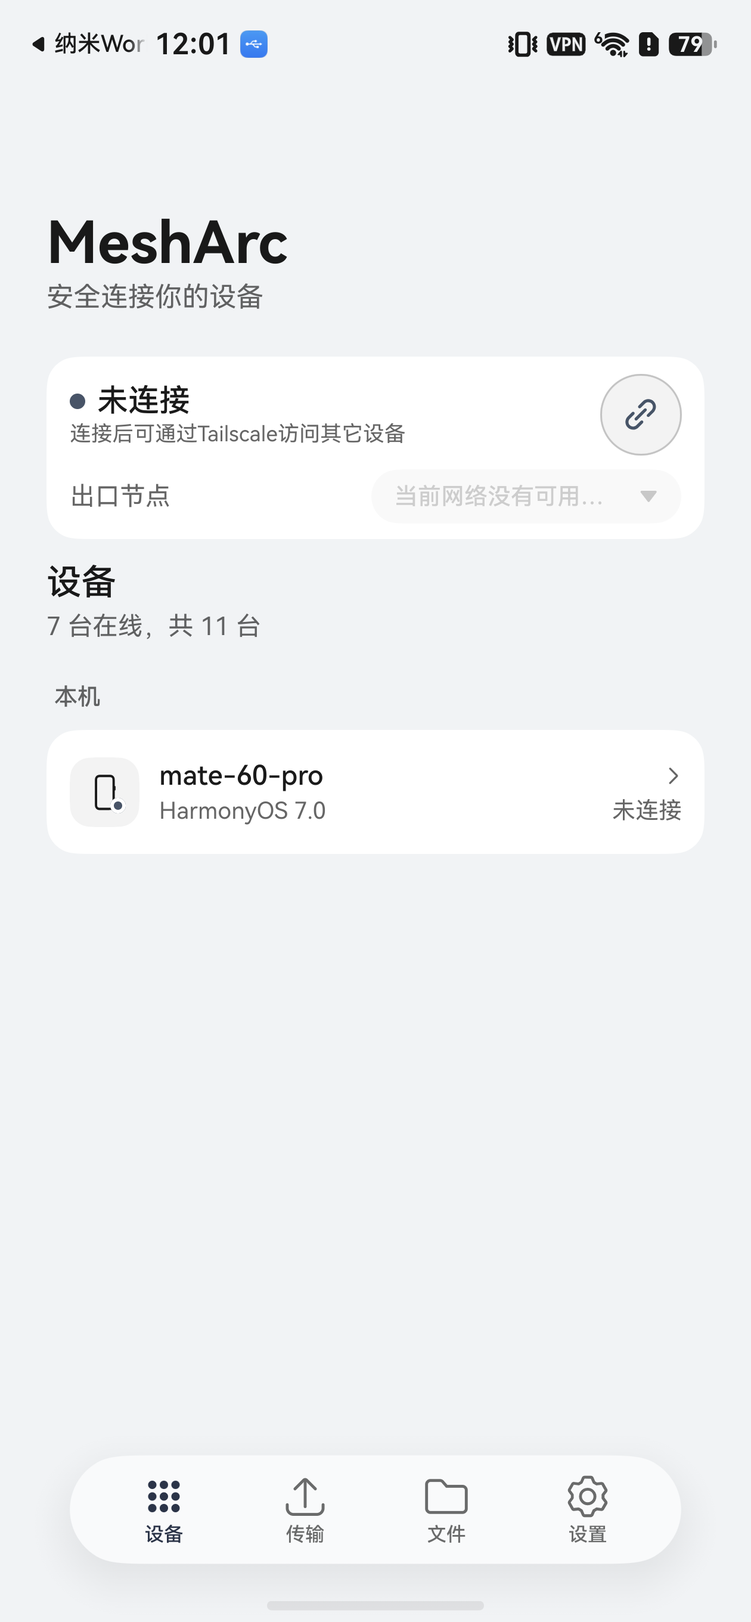
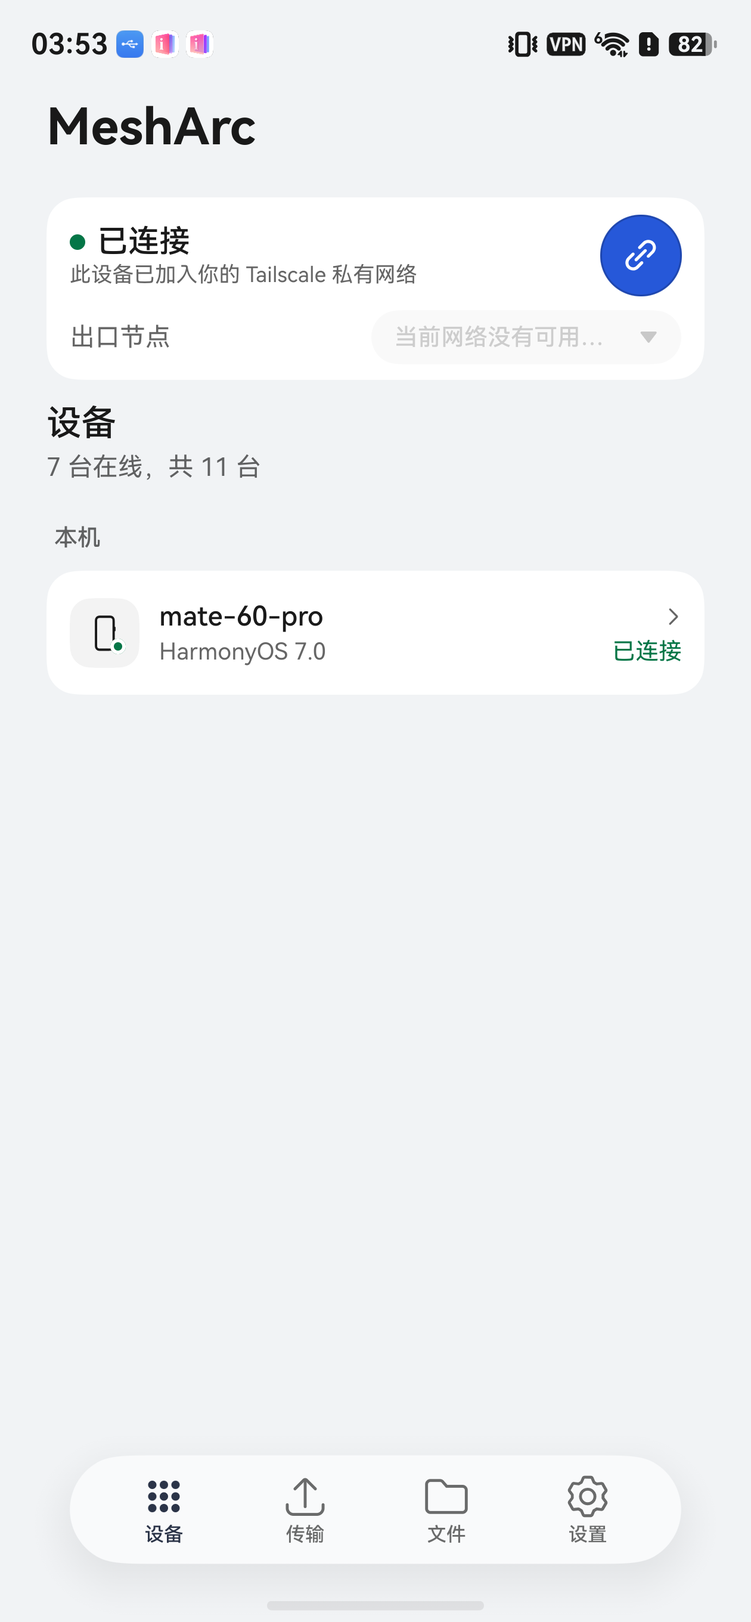
docs(a01): commit the green 28-file batch at 7b816f7
The batch at 18:16 finished with exit 0. Every file has zero failures.
No file reports a fail verdict; 19 files report partial, which means they
carry skips. The structured report holds 10 cases: 7 pass, 3 skip, 0 fail.

- connect-window-background 4 pass after the Home key fix
- taildrop-send 2 pass after waiting for the ready snapshot
- taildrop-text 1 pass after the editor and send-key fixes
- taildrive-browser 2 skip: no peer shares a folder
- screen-off-survival 3 pass, 720 s, 225 beats over 742 s

diff --git a/docs/changes/vpn-endurance/checks/e2e/index.html b/docs/changes/vpn-endurance/checks/e2e/index.html
@@ -4,7 +4,7 @@
 <meta charset="utf-8">
 <meta name="viewport" content="width=device-width,initial-scale=1">
 <meta name="a01-change-id" content="vpn-endurance">
-<meta name="a01-baseline" content="d681465（工作树有本批次未提交改动）">
+<meta name="a01-baseline" content="7b816f7（工作树有本批次未提交改动）">
 <meta name="a01-report-version" content="1">
 <title>设备侧 E2E：断连恢复与省电 · E2E 报告</title>
 <style>
@@ -132,8 +132,8 @@ footer{margin-top:34px;color:var(--muted);font-size:12px;line-height:1.8}
 <table>
 <caption>运行元信息</caption>
 <tbody>
-<tr><th>批次</th><td><code>vpn-endurance</code></td><th>代码基线</th><td><code>d681465（工作树有本批次未提交改动）</code></td></tr>
-<tr><th>目标类型</th><td>移动端（mobile）</td><th>执行时间</th><td>2026-10-22T03:25:22.594Z</td></tr>
+<tr><th>批次</th><td><code>vpn-endurance</code></td><th>代码基线</th><td><code>7b816f7（工作树有本批次未提交改动）</code></td></tr>
+<tr><th>目标类型</th><td>移动端（mobile）</td><th>执行时间</th><td>2026-10-22T07:16:37.215Z</td></tr>
 <tr><th>运行环境</th><td colspan="3">2LQGK24828000076 · ALN-AL00 · API 26 · USB 连接 · Wi-Fi · 充电中</td></tr>
 <tr><th>运行命令</th><td colspan="3"><code>scripts/e2e/run-batch.sh background-reconnect browser-login build-journey connect-journey connect-window-background control-server devices-journey diagnostics-report disconnect-journey endurance-recovery engine-runtimes first-run headless-connect install-restart-recovery logout media-launch meshsend-dual-channel navigation-shell network-recovery network-settings security-locks taildrive-browser taildrop-history taildrop-receive taildrop-send taildrop-text vpn-conflict screen-off-survival</code></td></tr>
 </tbody>
@@ -198,39 +198,39 @@ footer{margin-top:34px;color:var(--muted);font-size:12px;line-height:1.8}
 <section id="timeline">
 <h2>步骤时间线</h2>
 <p class="muted">按用例与步骤排列。截图和输出来自本次运行。点击截图可看原图。</p>
-<div class="cases"><article class="case pass" id="case-BG-CONNECT" data-case-card data-status="pass" data-oracles="O-CONN-04"><div class="case-head"><div><span class="case-id">用例 <code>BG-CONNECT</code></span><h3>重连监督：先连上隧道</h3></div><span class="badge pass">通过</span></div><div class="case-meta"><span class="chip">O-CONN-04</span><span class="muted">步骤 2</span></div><ol class="steps"><li class="step" id="step-BG-CONNECT-S1"><div class="step-head"><span class="step-id"><code>S1</code></span><span class="badge pass">通过</span></div><p class="step-name">冷启动应用</p><dl><dt>操作</dt><dd>aa force-stop 后 aa start</dd><dt>期望</dt><dd><ul class="expected"><li>设备日志出现 ui_opened</li><li>界面显示连接状态</li></ul></dd><dt>实际</dt><dd>应用冷启动完成，界面显示连接状态</dd></dl><div class="shots single"><figure><a href="shots/BG-CONNECT__S1__1.png"><img src="shots/BG-CONNECT__S1__1.png" alt="操作后" loading="lazy"></a><figcaption>操作后 · e2e-run/shots/01-background-reconnect-launch.png</figcaption></figure></div></li><li class="step" id="step-BG-CONNECT-S2"><div class="step-head"><span class="step-id"><code>S2</code></span><span class="badge pass">通过</span></div><p class="step-name">建立隧道</p><dl><dt>操作</dt><dd>界面处于未连接时点击连接按钮</dd><dt>期望</dt><dd><ul class="expected"><li>设备日志出现 vpn_connected</li><li>监督器记录一轮 connected 采样</li></ul></dd><dt>实际</dt><dd>应用已处于已连接状态</dd></dl><div class="shots single"><figure><a href="shots/BG-CONNECT__S2__1.png"><img src="shots/BG-CONNECT__S2__1.png" alt="结果" loading="lazy"></a><figcaption>结果 · e2e-run/shots/02-background-reconnect-connected.png</figcaption></figure></div></li></ol></article><article class="case pass" id="case-BG-USER-STOP" data-case-card data-status="pass" data-oracles="O-RECONN-10 O-SEAM-11"><div class="case-head"><div><span class="case-id">用例 <code>BG-USER-STOP</code></span><h3>重连监督：前台主动断开记为用户停止且不重连</h3></div><span class="badge pass">通过</span></div><div class="case-meta"><span class="chip">O-RECONN-10</span><span class="chip">O-SEAM-11</span><span class="muted">步骤 2</span></div><ol class="steps"><li class="step" id="step-BG-USER-STOP-S1"><div class="step-head"><span class="step-id"><code>S1</code></span><span class="badge pass">通过</span></div><p class="step-name">前台点击断开</p><dl><dt>操作</dt><dd>点击界面的断开按钮</dd><dt>期望</dt><dd><ul class="expected"><li>设备日志出现 vpn_drop_after_requested_stop</li><li>界面回到未连接</li></ul></dd><dt>实际</dt><dd>出现 vpn_drop_after_requested_stop，界面回到未连接</dd></dl><div class="shots single"><figure><a href="shots/BG-USER-STOP__S1__1.png"><img src="shots/BG-USER-STOP__S1__1.png" alt="结果" loading="lazy"></a><figcaption>结果 · e2e-run/shots/03-background-reconnect-foreground-drop.png</figcaption></figure></div></li><li class="step" id="step-BG-USER-STOP-S2"><div class="step-head"><span class="step-id"><code>S2</code></span><span class="badge pass">通过</span></div><p class="step-name">确认没有自动重连</p><dl><dt>操作</dt><dd>检索本次日志中的恢复事件</dd><dt>期望</dt><dd><ul class="expected"><li>不出现 vpn_session_recovery_attempt</li><li>不出现 vpn_session_recovery_started</li></ul></dd><dt>实际</dt><dd>日志中没有恢复事件</dd></dl><h4>运行输出</h4><pre class="output">vpn_session_recovery_attempt 0 次，vpn_session_recovery_started 0 次</pre></li></ol></article><article class="case skip" id="case-BG-BACKGROUND-DROP" data-case-card data-status="skip" data-oracles="O-CONN-04"><div class="case-head"><div><span class="case-id">用例 <code>BG-BACKGROUND-DROP</code></span><h3>重连监督：后台非主动掉线自动重连</h3></div><span class="badge skip">跳过</span></div><div class="case-meta"><span class="chip">O-CONN-04</span><span class="muted">步骤 1</span></div><ol class="steps"><li class="step" id="step-BG-BACKGROUND-DROP-S1"><div class="step-head"><span class="step-id"><code>S1</code></span><span class="badge skip">跳过</span></div><p class="step-name">用例适用性</p><dl><dt>操作</dt><dd>检查前置条件</dd><dt>期望</dt><dd><ul class="expected"><li>前置条件满足</li></ul></dd><dt>实际</dt><dd>缺制造非主动掉线的能力：需要人工在系统设置里断开 VPN，或一条只停扩展、不杀 UI 进程的通道。届时再补真机证据。</dd></dl><h4>运行输出</h4><pre class="output">缺制造非主动掉线的能力：需要人工在系统设置里断开 VPN，或一条只停扩展、不杀 UI 进程的通道。届时再补真机证据。</pre></li></ol></article><article class="case skip" id="case-BG-CARD-STOP" data-case-card data-status="skip" data-oracles="O-RECONN-10"><div class="case-head"><div><span class="case-id">用例 <code>BG-CARD-STOP</code></span><h3>重连监督：受控入口的主动断开</h3></div><span class="badge skip">跳过</span></div><div class="case-meta"><span class="chip">O-RECONN-10</span><span class="muted">步骤 1</span></div><ol class="steps"><li class="step" id="step-BG-CARD-STOP-S1"><div class="step-head"><span class="step-id"><code>S1</code></span><span class="badge skip">跳过</span></div><p class="step-name">用例适用性</p><dl><dt>操作</dt><dd>检查前置条件</dd><dt>期望</dt><dd><ul class="expected"><li>前置条件满足</li></ul></dd><dt>实际</dt><dd>缺桌面卡片通道：卡片不在应用窗口树里（manual-checks M-12/M-14 未执行），需要人工点卡片或补一条发送卡片 call 的命令。</dd></dl><h4>运行输出</h4><pre class="output">缺桌面卡片通道：卡片不在应用窗口树里（manual-checks M-12/M-14 未执行），需要人工点卡片或补一条发送卡片 call 的命令。</pre></li></ol></article><article class="case pass" id="case-ENDURANCE-RECOVERY" data-case-card data-status="pass" data-oracles="O-DIAG-02 O-CONN-08"><div class="case-head"><div><span class="case-id">用例 <code>ENDURANCE-RECOVERY</code></span><h3>扩展被杀后自动恢复并留下原因记录</h3></div><span class="badge pass">通过</span></div><div class="case-meta"><span class="chip">O-DIAG-02</span><span class="chip">O-CONN-08</span><span class="muted">步骤 4</span></div><ol class="steps"><li class="step" id="step-ENDURANCE-RECOVERY-S1"><div class="step-head"><span class="step-id"><code>S1</code></span><span class="badge pass">通过</span></div><p class="step-name">定位扩展进程</p><dl><dt>操作</dt><dd>hdc shell ps -ef 并筛选带 vpn 的应用进程</dd><dt>期望</dt><dd><ul class="expected"><li>只有一个带 vpn 的应用进程</li><li>状态文件带 sessionId</li></ul></dd><dt>实际</dt><dd>扩展进程 17733，会话 1792642996297</dd></dl><h4>运行输出</h4><pre class="output">20020205      17733    583 0 18:34:39 ?     00:00:07 ren.w2h.mesharc:vpn</pre></li><li class="step" id="step-ENDURANCE-RECOVERY-S2"><div class="step-head"><span class="step-id"><code>S2</code></span><span class="badge pass">通过</span></div><p class="step-name">结束扩展进程</p><dl><dt>操作</dt><dd>诊断动作「手动切断系统 VPN 连接」</dd><dt>期望</dt><dd><ul class="expected"><li>扩展进程结束</li><li>该 PID 从进程表消失</li><li>不是经用户停止入口断开</li></ul></dd><dt>实际</dt><dd>进程 17733 已结束（诊断动作「手动切断系统 VPN 连接」）</dd></dl><h4>运行输出</h4><pre class="output">诊断动作「手动切断系统 VPN 连接」
-PID 已从 ps 输出消失</pre></li><li class="step" id="step-ENDURANCE-RECOVERY-S3"><div class="step-head"><span class="step-id"><code>S3</code></span><span class="badge pass">通过</span></div><p class="step-name">等待自动恢复</p><dl><dt>操作</dt><dd>等待设备日志出现恢复事件与新扩展</dd><dt>期望</dt><dd><ul class="expected"><li>出现 vpn_session_recovery_attempt</li><li>出现 vpn_extension_created</li><li>状态回到 Running</li></ul></dd><dt>实际</dt><dd>新会话 1792643091071，state=Running，tun=true</dd></dl><div class="shots"><figure><a href="shots/ENDURANCE-RECOVERY__S3__1.png"><img src="shots/ENDURANCE-RECOVERY__S3__1.png" alt="操作后" loading="lazy"></a><figcaption>操作后 · e2e-run/shots/01-endurance-recovery-killed.png</figcaption></figure><figure><a href="shots/ENDURANCE-RECOVERY__S3__2.png"><img src="shots/ENDURANCE-RECOVERY__S3__2.png" alt="结果" loading="lazy"></a><figcaption>结果 · e2e-run/shots/02-endurance-recovery-restored.png</figcaption></figure></div></li><li class="step" id="step-ENDURANCE-RECOVERY-S4"><div class="step-head"><span class="step-id"><code>S4</code></span><span class="badge pass">通过</span></div><p class="step-name">校验原因账本</p><dl><dt>操作</dt><dd>读取会话账本（按写者分文件）的新增行</dd><dt>期望</dt><dd><ul class="expected"><li>旧会话有 end 或 observed 记录</li><li>原因属于 extension_crash / extension_destroyed</li><li>没有 user_stop</li></ul></dd><dt>实际</dt><dd>旧会话 1792642996297 记录 extension_destroyed，没有 user_stop</dd></dl><h4>运行输出</h4><pre class="output">[
+<div class="cases"><article class="case pass" id="case-BG-CONNECT" data-case-card data-status="pass" data-oracles="O-CONN-04"><div class="case-head"><div><span class="case-id">用例 <code>BG-CONNECT</code></span><h3>重连监督：先连上隧道</h3></div><span class="badge pass">通过</span></div><div class="case-meta"><span class="chip">O-CONN-04</span><span class="muted">步骤 2</span></div><ol class="steps"><li class="step" id="step-BG-CONNECT-S1"><div class="step-head"><span class="step-id"><code>S1</code></span><span class="badge pass">通过</span></div><p class="step-name">冷启动应用</p><dl><dt>操作</dt><dd>aa force-stop 后 aa start</dd><dt>期望</dt><dd><ul class="expected"><li>设备日志出现 ui_opened</li><li>界面显示连接状态</li></ul></dd><dt>实际</dt><dd>应用冷启动完成，界面显示连接状态</dd></dl><div class="shots single"><figure><a href="shots/BG-CONNECT__S1__1.png"><img src="shots/BG-CONNECT__S1__1.png" alt="操作后" loading="lazy"></a><figcaption>操作后 · e2e-run/shots/01-background-reconnect-launch.png</figcaption></figure></div></li><li class="step" id="step-BG-CONNECT-S2"><div class="step-head"><span class="step-id"><code>S2</code></span><span class="badge pass">通过</span></div><p class="step-name">建立隧道</p><dl><dt>操作</dt><dd>界面处于未连接时点击连接按钮</dd><dt>期望</dt><dd><ul class="expected"><li>设备日志出现 vpn_connected</li><li>监督器记录一轮 connected 采样</li></ul></dd><dt>实际</dt><dd>点击连接后出现 vpn_connected，监督器已采样</dd></dl><div class="shots single"><figure><a href="shots/BG-CONNECT__S2__1.png"><img src="shots/BG-CONNECT__S2__1.png" alt="结果" loading="lazy"></a><figcaption>结果 · e2e-run/shots/02-background-reconnect-connected.png</figcaption></figure></div></li></ol></article><article class="case pass" id="case-BG-USER-STOP" data-case-card data-status="pass" data-oracles="O-RECONN-10 O-SEAM-11"><div class="case-head"><div><span class="case-id">用例 <code>BG-USER-STOP</code></span><h3>重连监督：前台主动断开记为用户停止且不重连</h3></div><span class="badge pass">通过</span></div><div class="case-meta"><span class="chip">O-RECONN-10</span><span class="chip">O-SEAM-11</span><span class="muted">步骤 2</span></div><ol class="steps"><li class="step" id="step-BG-USER-STOP-S1"><div class="step-head"><span class="step-id"><code>S1</code></span><span class="badge pass">通过</span></div><p class="step-name">前台点击断开</p><dl><dt>操作</dt><dd>点击界面的断开按钮</dd><dt>期望</dt><dd><ul class="expected"><li>设备日志出现 vpn_drop_after_requested_stop</li><li>界面回到未连接</li></ul></dd><dt>实际</dt><dd>出现 vpn_drop_after_requested_stop，界面回到未连接</dd></dl><div class="shots single"><figure><a href="shots/BG-USER-STOP__S1__1.png"><img src="shots/BG-USER-STOP__S1__1.png" alt="结果" loading="lazy"></a><figcaption>结果 · e2e-run/shots/03-background-reconnect-foreground-drop.png</figcaption></figure></div></li><li class="step" id="step-BG-USER-STOP-S2"><div class="step-head"><span class="step-id"><code>S2</code></span><span class="badge pass">通过</span></div><p class="step-name">确认没有自动重连</p><dl><dt>操作</dt><dd>检索本次日志中的恢复事件</dd><dt>期望</dt><dd><ul class="expected"><li>不出现 vpn_session_recovery_attempt</li><li>不出现 vpn_session_recovery_started</li></ul></dd><dt>实际</dt><dd>日志中没有恢复事件</dd></dl><h4>运行输出</h4><pre class="output">vpn_session_recovery_attempt 0 次，vpn_session_recovery_started 0 次</pre></li></ol></article><article class="case skip" id="case-BG-BACKGROUND-DROP" data-case-card data-status="skip" data-oracles="O-CONN-04"><div class="case-head"><div><span class="case-id">用例 <code>BG-BACKGROUND-DROP</code></span><h3>重连监督：后台非主动掉线自动重连</h3></div><span class="badge skip">跳过</span></div><div class="case-meta"><span class="chip">O-CONN-04</span><span class="muted">步骤 1</span></div><ol class="steps"><li class="step" id="step-BG-BACKGROUND-DROP-S1"><div class="step-head"><span class="step-id"><code>S1</code></span><span class="badge skip">跳过</span></div><p class="step-name">用例适用性</p><dl><dt>操作</dt><dd>检查前置条件</dd><dt>期望</dt><dd><ul class="expected"><li>前置条件满足</li></ul></dd><dt>实际</dt><dd>缺制造非主动掉线的能力：需要人工在系统设置里断开 VPN，或一条只停扩展、不杀 UI 进程的通道。届时再补真机证据。</dd></dl><h4>运行输出</h4><pre class="output">缺制造非主动掉线的能力：需要人工在系统设置里断开 VPN，或一条只停扩展、不杀 UI 进程的通道。届时再补真机证据。</pre></li></ol></article><article class="case skip" id="case-BG-CARD-STOP" data-case-card data-status="skip" data-oracles="O-RECONN-10"><div class="case-head"><div><span class="case-id">用例 <code>BG-CARD-STOP</code></span><h3>重连监督：受控入口的主动断开</h3></div><span class="badge skip">跳过</span></div><div class="case-meta"><span class="chip">O-RECONN-10</span><span class="muted">步骤 1</span></div><ol class="steps"><li class="step" id="step-BG-CARD-STOP-S1"><div class="step-head"><span class="step-id"><code>S1</code></span><span class="badge skip">跳过</span></div><p class="step-name">用例适用性</p><dl><dt>操作</dt><dd>检查前置条件</dd><dt>期望</dt><dd><ul class="expected"><li>前置条件满足</li></ul></dd><dt>实际</dt><dd>缺桌面卡片通道：卡片不在应用窗口树里（manual-checks M-12/M-14 未执行），需要人工点卡片或补一条发送卡片 call 的命令。</dd></dl><h4>运行输出</h4><pre class="output">缺桌面卡片通道：卡片不在应用窗口树里（manual-checks M-12/M-14 未执行），需要人工点卡片或补一条发送卡片 call 的命令。</pre></li></ol></article><article class="case pass" id="case-ENDURANCE-RECOVERY" data-case-card data-status="pass" data-oracles="O-DIAG-02 O-CONN-08"><div class="case-head"><div><span class="case-id">用例 <code>ENDURANCE-RECOVERY</code></span><h3>扩展被杀后自动恢复并留下原因记录</h3></div><span class="badge pass">通过</span></div><div class="case-meta"><span class="chip">O-DIAG-02</span><span class="chip">O-CONN-08</span><span class="muted">步骤 4</span></div><ol class="steps"><li class="step" id="step-ENDURANCE-RECOVERY-S1"><div class="step-head"><span class="step-id"><code>S1</code></span><span class="badge pass">通过</span></div><p class="step-name">定位扩展进程</p><dl><dt>操作</dt><dd>hdc shell ps -ef 并筛选带 vpn 的应用进程</dd><dt>期望</dt><dd><ul class="expected"><li>只有一个带 vpn 的应用进程</li><li>状态文件带 sessionId</li></ul></dd><dt>实际</dt><dd>扩展进程 37379，会话 1792653942945</dd></dl><h4>运行输出</h4><pre class="output">20020205      37379    583 0 21:37:06 ?     00:00:06 ren.w2h.mesharc:vpn</pre></li><li class="step" id="step-ENDURANCE-RECOVERY-S2"><div class="step-head"><span class="step-id"><code>S2</code></span><span class="badge pass">通过</span></div><p class="step-name">结束扩展进程</p><dl><dt>操作</dt><dd>诊断动作「手动切断系统 VPN 连接」</dd><dt>期望</dt><dd><ul class="expected"><li>扩展进程结束</li><li>该 PID 从进程表消失</li><li>不是经用户停止入口断开</li></ul></dd><dt>实际</dt><dd>进程 37379 已结束（诊断动作「手动切断系统 VPN 连接」）</dd></dl><h4>运行输出</h4><pre class="output">诊断动作「手动切断系统 VPN 连接」
+PID 已从 ps 输出消失</pre></li><li class="step" id="step-ENDURANCE-RECOVERY-S3"><div class="step-head"><span class="step-id"><code>S3</code></span><span class="badge pass">通过</span></div><p class="step-name">等待自动恢复</p><dl><dt>操作</dt><dd>等待设备日志出现恢复事件与新扩展</dd><dt>期望</dt><dd><ul class="expected"><li>出现 vpn_session_recovery_attempt</li><li>出现 vpn_extension_created</li><li>状态回到 Running</li></ul></dd><dt>实际</dt><dd>新会话 1792654037929，state=Running，tun=true</dd></dl><div class="shots"><figure><a href="shots/ENDURANCE-RECOVERY__S3__1.png"><img src="shots/ENDURANCE-RECOVERY__S3__1.png" alt="操作后" loading="lazy"></a><figcaption>操作后 · e2e-run/shots/01-endurance-recovery-killed.png</figcaption></figure><figure><a href="shots/ENDURANCE-RECOVERY__S3__2.png"><img src="shots/ENDURANCE-RECOVERY__S3__2.png" alt="结果" loading="lazy"></a><figcaption>结果 · e2e-run/shots/02-endurance-recovery-restored.png</figcaption></figure></div></li><li class="step" id="step-ENDURANCE-RECOVERY-S4"><div class="step-head"><span class="step-id"><code>S4</code></span><span class="badge pass">通过</span></div><p class="step-name">校验原因账本</p><dl><dt>操作</dt><dd>读取会话账本（按写者分文件）的新增行</dd><dt>期望</dt><dd><ul class="expected"><li>旧会话有 end 或 observed 记录</li><li>原因属于 extension_crash / extension_destroyed</li><li>没有 user_stop</li></ul></dd><dt>实际</dt><dd>旧会话 1792653942945 记录 extension_destroyed，没有 user_stop</dd></dl><h4>运行输出</h4><pre class="output">[
   {
-    &quot;timestampMs&quot;: 1792643086085,
+    &quot;timestampMs&quot;: 1792654032755,
     &quot;writer&quot;: &quot;vpn&quot;,
-    &quot;sessionId&quot;: &quot;1792642996297&quot;,
+    &quot;sessionId&quot;: &quot;1792653942945&quot;,
     &quot;kind&quot;: &quot;end&quot;,
     &quot;reason&quot;: &quot;extension_destroyed&quot;,
     &quot;phase&quot;: &quot;on_destroy&quot;,
     &quot;code&quot;: 0
   },
   {
-    &quot;timestampMs&quot;: 1792643090798,
+    &quot;timestampMs&quot;: 1792654037582,
     &quot;writer&quot;: &quot;ui&quot;,
-    &quot;sessionId&quot;: &quot;1792642996297&quot;,
+    &quot;sessionId&quot;: &quot;1792653942945&quot;,
     &quot;kind&quot;: &quot;observed&quot;,
     &quot;reason&quot;: &quot;extension_destroyed&quot;,
     &quot;phase&quot;: &quot;on_destroy&quot;,
     &quot;code&quot;: 0
   }
-]</pre></li></ol></article><article class="case pass" id="case-INSTALL-RESTART" data-case-card data-status="pass" data-oracles="O-CONN-08 O-DIAG-02 O-RECONN-02"><div class="case-head"><div><span class="case-id">用例 <code>INSTALL-RESTART</code></span><h3>安装重启后按意图恢复隧道</h3></div><span class="badge pass">通过</span></div><div class="case-meta"><span class="chip">O-CONN-08</span><span class="chip">O-DIAG-02</span><span class="chip">O-RECONN-02</span><span class="muted">步骤 5</span></div><ol class="steps"><li class="step" id="step-INSTALL-RESTART-S1"><div class="step-head"><span class="step-id"><code>S1</code></span><span class="badge pass">通过</span></div><p class="step-name">确认安装前状态</p><dl><dt>操作</dt><dd>读取状态文件与意图文件</dd><dt>期望</dt><dd><ul class="expected"><li>状态为 Running</li><li>意图为 connected</li><li>状态文件带 sessionId</li></ul></dd><dt>实际</dt><dd>会话 1792640335565，state=Running，意图 connected</dd></dl><h4>运行输出</h4><pre class="output">状态：OK | state=Running | loginURLReady=false | tailscaleIPs=2 | tun=true | exitNode=false | routeAll=true | exitNodeLAN=false | subnetRoutes=0 | tunRead=8 | tunWrite=0 | tunReadErrors=0 | tunWriteErrors=0 | trafficSession=1792640335750 | txBytes=592 | rxBytes=0 | dnsQ=0 | dnsR=0 | dnsA=0 | netUp=unknown | netUDP=true | netIPv4=true | netIPv6=false | netMappingVaries=true | netPort=41641 | phase=auth-loop-finished | heartbeatMs=1792640346635 | sessionId=1792640335565
-意图：{&quot;desired&quot;:&quot;connected&quot;,&quot;changedAtMs&quot;:1792640335370,&quot;by&quot;:&quot;ui&quot;}</pre></li><li class="step" id="step-INSTALL-RESTART-S2"><div class="step-head"><span class="step-id"><code>S2</code></span><span class="badge pass">通过</span></div><p class="step-name">安装新 HAP</p><dl><dt>操作</dt><dd>hdc install -r /opt/git/github/mesharc/entry/build/default/outputs/default/entry-default-signed.hap</dd><dt>期望</dt><dd><ul class="expected"><li>安装成功</li><li>应用与扩展进程被结束</li></ul></dd><dt>实际</dt><dd>安装成功，应用数据保留</dd></dl><h4>运行输出</h4><pre class="output">[Info]App install path:/opt/git/github/mesharc/entry/build/default/outputs/default/entry-default-signed.hap msg:install bundle successfully. 
-AppMod finish</pre></li><li class="step" id="step-INSTALL-RESTART-S3"><div class="step-head"><span class="step-id"><code>S3</code></span><span class="badge pass">通过</span></div><p class="step-name">启动应用</p><dl><dt>操作</dt><dd>aa start -a EntryAbility</dd><dt>期望</dt><dd><ul class="expected"><li>启动成功</li><li>设备日志出现 ui_opened</li></ul></dd><dt>实际</dt><dd>应用启动并显示界面</dd></dl><div class="shots single"><figure><a href="shots/INSTALL-RESTART__S3__1.png"><img src="shots/INSTALL-RESTART__S3__1.png" alt="操作后" loading="lazy"></a><figcaption>操作后 · e2e-run/shots/01-install-restart-launched.png</figcaption></figure></div></li><li class="step" id="step-INSTALL-RESTART-S4"><div class="step-head"><span class="step-id"><code>S4</code></span><span class="badge pass">通过</span></div><p class="step-name">等待记录与恢复</p><dl><dt>操作</dt><dd>等待结束观测、恢复事件与新扩展</dd><dt>期望</dt><dd><ul class="expected"><li>出现 vpn_session_end_observed</li><li>出现 vpn_session_recovery_attempt</li><li>出现 vpn_session_recovery_started</li><li>状态回到 Running 且 sessionId 改变</li></ul></dd><dt>实际</dt><dd>新会话 1792640380755，state=Running</dd></dl><div class="shots single"><figure><a href="shots/INSTALL-RESTART__S4__1.png"><img src="shots/INSTALL-RESTART__S4__1.png" alt="结果" loading="lazy"></a><figcaption>结果 · e2e-run/shots/02-install-restart-recovered.png</figcaption></figure></div></li><li class="step" id="step-INSTALL-RESTART-S5"><div class="step-head"><span class="step-id"><code>S5</code></span><span class="badge pass">通过</span></div><p class="step-name">校验原因账本</p><dl><dt>操作</dt><dd>读取会话账本（按写者分文件）</dd><dt>期望</dt><dd><ul class="expected"><li>旧会话有 observed 或 end 记录</li><li>本次运行没有 user_stop</li></ul></dd><dt>实际</dt><dd>旧会话 1792640335565 已记录结束原因，本次没有 user_stop</dd></dl><h4>运行输出</h4><pre class="output">[
+]</pre></li></ol></article><article class="case pass" id="case-INSTALL-RESTART" data-case-card data-status="pass" data-oracles="O-CONN-08 O-DIAG-02 O-RECONN-02"><div class="case-head"><div><span class="case-id">用例 <code>INSTALL-RESTART</code></span><h3>安装重启后按意图恢复隧道</h3></div><span class="badge pass">通过</span></div><div class="case-meta"><span class="chip">O-CONN-08</span><span class="chip">O-DIAG-02</span><span class="chip">O-RECONN-02</span><span class="muted">步骤 5</span></div><ol class="steps"><li class="step" id="step-INSTALL-RESTART-S1"><div class="step-head"><span class="step-id"><code>S1</code></span><span class="badge pass">通过</span></div><p class="step-name">确认安装前状态</p><dl><dt>操作</dt><dd>读取状态文件与意图文件</dd><dt>期望</dt><dd><ul class="expected"><li>状态为 Running</li><li>意图为 connected</li><li>状态文件带 sessionId</li></ul></dd><dt>实际</dt><dd>会话 1792654221980，state=Running，意图 connected</dd></dl><h4>运行输出</h4><pre class="output">状态：OK | state=Running | loginURLReady=false | tailscaleIPs=2 | tun=true | exitNode=false | routeAll=true | exitNodeLAN=false | subnetRoutes=0 | tunRead=8 | tunWrite=0 | tunReadErrors=0 | tunWriteErrors=0 | trafficSession=1792654222164 | txBytes=592 | rxBytes=0 | dnsQ=0 | dnsR=0 | dnsA=0 | netUp=unknown | netUDP=true | netIPv4=true | netIPv6=false | netMappingVaries=true | netPort=41641 | phase=auth-loop-finished | heartbeatMs=1792654233585 | sessionId=1792654221980
+意图：{&quot;desired&quot;:&quot;connected&quot;,&quot;changedAtMs&quot;:1792654221789,&quot;by&quot;:&quot;ui&quot;}</pre></li><li class="step" id="step-INSTALL-RESTART-S2"><div class="step-head"><span class="step-id"><code>S2</code></span><span class="badge pass">通过</span></div><p class="step-name">安装新 HAP</p><dl><dt>操作</dt><dd>hdc install -r /opt/git/github/mesharc/entry/build/default/outputs/default/entry-default-signed.hap</dd><dt>期望</dt><dd><ul class="expected"><li>安装成功</li><li>应用与扩展进程被结束</li></ul></dd><dt>实际</dt><dd>安装成功，应用数据保留</dd></dl><h4>运行输出</h4><pre class="output">[Info]App install path:/opt/git/github/mesharc/entry/build/default/outputs/default/entry-default-signed.hap msg:install bundle successfully. 
+AppMod finish</pre></li><li class="step" id="step-INSTALL-RESTART-S3"><div class="step-head"><span class="step-id"><code>S3</code></span><span class="badge pass">通过</span></div><p class="step-name">启动应用</p><dl><dt>操作</dt><dd>aa start -a EntryAbility</dd><dt>期望</dt><dd><ul class="expected"><li>启动成功</li><li>设备日志出现 ui_opened</li></ul></dd><dt>实际</dt><dd>应用启动并显示界面</dd></dl><div class="shots single"><figure><a href="shots/INSTALL-RESTART__S3__1.png"><img src="shots/INSTALL-RESTART__S3__1.png" alt="操作后" loading="lazy"></a><figcaption>操作后 · e2e-run/shots/01-install-restart-launched.png</figcaption></figure></div></li><li class="step" id="step-INSTALL-RESTART-S4"><div class="step-head"><span class="step-id"><code>S4</code></span><span class="badge pass">通过</span></div><p class="step-name">等待记录与恢复</p><dl><dt>操作</dt><dd>等待结束观测、恢复事件与新扩展</dd><dt>期望</dt><dd><ul class="expected"><li>出现 vpn_session_end_observed</li><li>出现 vpn_session_recovery_attempt</li><li>出现 vpn_session_recovery_started</li><li>状态回到 Running 且 sessionId 改变</li></ul></dd><dt>实际</dt><dd>新会话 1792654267605，state=Running</dd></dl><div class="shots single"><figure><a href="shots/INSTALL-RESTART__S4__1.png"><img src="shots/INSTALL-RESTART__S4__1.png" alt="结果" loading="lazy"></a><figcaption>结果 · e2e-run/shots/02-install-restart-recovered.png</figcaption></figure></div></li><li class="step" id="step-INSTALL-RESTART-S5"><div class="step-head"><span class="step-id"><code>S5</code></span><span class="badge pass">通过</span></div><p class="step-name">校验原因账本</p><dl><dt>操作</dt><dd>读取会话账本（按写者分文件）</dd><dt>期望</dt><dd><ul class="expected"><li>旧会话有 observed 或 end 记录</li><li>本次运行没有 user_stop</li></ul></dd><dt>实际</dt><dd>旧会话 1792654221980 已记录结束原因，本次没有 user_stop</dd></dl><h4>运行输出</h4><pre class="output">[
   {
-    &quot;timestampMs&quot;: 1792640380365,
+    &quot;timestampMs&quot;: 1792654267213,
     &quot;writer&quot;: &quot;ui&quot;,
-    &quot;sessionId&quot;: &quot;1792640335565&quot;,
+    &quot;sessionId&quot;: &quot;1792654221980&quot;,
     &quot;kind&quot;: &quot;observed&quot;,
     &quot;reason&quot;: &quot;extension_crash&quot;,
-    &quot;phase&quot;: &quot;heartbeat_expired_stale_end&quot;,
+    &quot;phase&quot;: &quot;heartbeat_expired&quot;,
     &quot;code&quot;: 0
   }
-]</pre></li></ol></article><article class="case skip" id="case-NET-RECOVERY" data-case-card data-status="skip" data-oracles="O-NET-04 O-CONN-09 O-RECONN-11"><div class="case-head"><div><span class="case-id">用例 <code>NET-RECOVERY</code></span><h3>断网后恢复网络自动重连</h3></div><span class="badge skip">跳过</span></div><div class="case-meta"><span class="chip">O-NET-04</span><span class="chip">O-CONN-09</span><span class="chip">O-RECONN-11</span><span class="muted">步骤 2</span></div><ol class="steps"><li class="step" id="step-NET-RECOVERY-S1"><div class="step-head"><span class="step-id"><code>S1</code></span><span class="badge skip">跳过</span></div><p class="step-name">断开网络</p><dl><dt>操作</dt><dd>hdc shell svc wifi disable 并等待 ping 失败</dd><dt>期望</dt><dd><ul class="expected"><li>命令成功</li><li>设备不再能访问 1.1.1.1</li></ul></dd><dt>实际</dt><dd>`svc wifi disable` 执行了但设备仍在线（可能还有蜂窝通道），无法造出断网。</dd></dl><h4>运行输出</h4><pre class="output">`svc wifi disable` 执行了但设备仍在线（可能还有蜂窝通道），无法造出断网。</pre></li><li class="step" id="step-NET-RECOVERY-S2"><div class="step-head"><span class="step-id"><code>S2</code></span><span class="badge skip">跳过</span></div><p class="step-name">跳过原因</p><dl><dt>操作</dt><dd>检查前置条件</dd><dt>期望</dt><dd><ul class="expected"><li>前置条件满足</li></ul></dd><dt>实际</dt><dd>`svc wifi disable` 执行了但设备仍在线（可能还有蜂窝通道），无法造出断网。</dd></dl><h4>运行输出</h4><pre class="output">`svc wifi disable` 执行了但设备仍在线（可能还有蜂窝通道），无法造出断网。</pre></li></ol></article><article class="case pass" id="case-SURV-CONNECT" data-case-card data-status="pass" data-oracles="O-CONN-06"><div class="case-head"><div><span class="case-id">用例 <code>SURV-CONNECT</code></span><h3>锁屏存活：先连上隧道</h3></div><span class="badge pass">通过</span></div><div class="case-meta"><span class="chip">O-CONN-06</span><span class="muted">步骤 2</span></div><ol class="steps"><li class="step" id="step-SURV-CONNECT-S1"><div class="step-head"><span class="step-id"><code>S1</code></span><span class="badge pass">通过</span></div><p class="step-name">冷启动应用</p><dl><dt>操作</dt><dd>aa force-stop 后 aa start</dd><dt>期望</dt><dd><ul class="expected"><li>设备日志出现 ui_opened</li><li>界面显示未连接或已连接</li></ul></dd><dt>实际</dt><dd>应用冷启动完成，界面显示连接状态</dd></dl><div class="shots single"><figure><a href="shots/SURV-CONNECT__S1__1.png"><img src="shots/SURV-CONNECT__S1__1.png" alt="操作后" loading="lazy"></a><figcaption>操作后 · e2e-run/shots/01-survival-launch.png</figcaption></figure></div></li><li class="step" id="step-SURV-CONNECT-S2"><div class="step-head"><span class="step-id"><code>S2</code></span><span class="badge pass">通过</span></div><p class="step-name">建立隧道</p><dl><dt>操作</dt><dd>界面处于未连接时点击连接按钮</dd><dt>期望</dt><dd><ul class="expected"><li>设备日志出现 vpn_connected</li></ul></dd><dt>实际</dt><dd>应用已处于已连接状态</dd></dl><div class="shots single"><figure><a href="shots/SURV-CONNECT__S2__1.png"><img src="shots/SURV-CONNECT__S2__1.png" alt="结果" loading="lazy"></a><figcaption>结果 · e2e-run/shots/02-survival-connected.png</figcaption></figure></div></li></ol></article><article class="case pass" id="case-SURV-SCREEN-OFF" data-case-card data-status="pass" data-oracles="O-CONN-06"><div class="case-head"><div><span class="case-id">用例 <code>SURV-SCREEN-OFF</code></span><h3>锁屏 720 秒静置期间心跳不断</h3></div><span class="badge pass">通过</span></div><div class="case-meta"><span class="chip">O-CONN-06</span><span class="muted">步骤 2</span></div><ol class="steps"><li class="step" id="step-SURV-SCREEN-OFF-S1"><div class="step-head"><span class="step-id"><code>S1</code></span><span class="badge pass">通过</span></div><p class="step-name">锁屏静置</p><dl><dt>操作</dt><dd>power-shell suspend 后等待 720 秒并唤醒</dd><dt>期望</dt><dd><ul class="expected"><li>设备进入锁屏</li><li>到点后唤醒成功</li></ul></dd><dt>实际</dt><dd>锁屏 720 秒后唤醒</dd></dl><div class="shots"><figure><a href="shots/SURV-SCREEN-OFF__S1__1.png"><img src="shots/SURV-SCREEN-OFF__S1__1.png" alt="操作前" loading="lazy"></a><figcaption>操作前 · e2e-run/shots/03-survival-before-suspend.png</figcaption></figure><figure><a href="shots/SURV-SCREEN-OFF__S1__2.png"><img src="shots/SURV-SCREEN-OFF__S1__2.png" alt="操作后" loading="lazy"></a><figcaption>操作后 · e2e-run/shots/04-survival-after-wakeup.png</figcaption></figure></div></li><li class="step" id="step-SURV-SCREEN-OFF-S2"><div class="step-head"><span class="step-id"><code>S2</code></span><span class="badge pass">通过</span></div><p class="step-name">校验心跳</p><dl><dt>操作</dt><dd>统计锁屏期间扩展写入的心跳</dd><dt>期望</dt><dd><ul class="expected"><li>心跳数量达到下限</li><li>心跳跨度达到 720 秒</li><li>最大间隔不超过 15 秒</li></ul></dd><dt>实际</dt><dd>心跳 223 个，跨度 745 s，最大间隔 6.9 s</dd></dl><h4>运行输出</h4><pre class="output">心跳 223 个，跨度 745 s，最大间隔 6.9 s</pre></li></ol></article><article class="case pass" id="case-SURV-ONE-PROCESS" data-case-card data-status="pass" data-oracles="O-CONN-06"><div class="case-head"><div><span class="case-id">用例 <code>SURV-ONE-PROCESS</code></span><h3>锁屏存活：全程只有一个扩展进程</h3></div><span class="badge pass">通过</span></div><div class="case-meta"><span class="chip">O-CONN-06</span><span class="muted">步骤 1</span></div><ol class="steps"><li class="step" id="step-SURV-ONE-PROCESS-S1"><div class="step-head"><span class="step-id"><code>S1</code></span><span class="badge pass">通过</span></div><p class="step-name">统计扩展进程</p><dl><dt>操作</dt><dd>检索设备日志中的扩展创建与销毁事件</dd><dt>期望</dt><dd><ul class="expected"><li>vpn_extension_created 出现 1 次</li><li>vpn_extension_destroyed 出现 0 次</li></ul></dd><dt>实际</dt><dd>vpn_extension_created 1 次，vpn_extension_destroyed 0 次</dd></dl><h4>运行输出</h4><pre class="output">vpn_extension_created 1 次，vpn_extension_destroyed 0 次</pre></li></ol></article></div>
+]</pre></li></ol></article><article class="case skip" id="case-NET-RECOVERY" data-case-card data-status="skip" data-oracles="O-NET-04 O-CONN-09 O-RECONN-11"><div class="case-head"><div><span class="case-id">用例 <code>NET-RECOVERY</code></span><h3>断网后恢复网络自动重连</h3></div><span class="badge skip">跳过</span></div><div class="case-meta"><span class="chip">O-NET-04</span><span class="chip">O-CONN-09</span><span class="chip">O-RECONN-11</span><span class="muted">步骤 2</span></div><ol class="steps"><li class="step" id="step-NET-RECOVERY-S1"><div class="step-head"><span class="step-id"><code>S1</code></span><span class="badge skip">跳过</span></div><p class="step-name">断开网络</p><dl><dt>操作</dt><dd>hdc shell svc wifi disable 并等待 ping 失败</dd><dt>期望</dt><dd><ul class="expected"><li>命令成功</li><li>设备不再能访问 1.1.1.1</li></ul></dd><dt>实际</dt><dd>`svc wifi disable` 执行了但设备仍在线（可能还有蜂窝通道），无法造出断网。</dd></dl><h4>运行输出</h4><pre class="output">`svc wifi disable` 执行了但设备仍在线（可能还有蜂窝通道），无法造出断网。</pre></li><li class="step" id="step-NET-RECOVERY-S2"><div class="step-head"><span class="step-id"><code>S2</code></span><span class="badge skip">跳过</span></div><p class="step-name">跳过原因</p><dl><dt>操作</dt><dd>检查前置条件</dd><dt>期望</dt><dd><ul class="expected"><li>前置条件满足</li></ul></dd><dt>实际</dt><dd>`svc wifi disable` 执行了但设备仍在线（可能还有蜂窝通道），无法造出断网。</dd></dl><h4>运行输出</h4><pre class="output">`svc wifi disable` 执行了但设备仍在线（可能还有蜂窝通道），无法造出断网。</pre></li></ol></article><article class="case pass" id="case-SURV-CONNECT" data-case-card data-status="pass" data-oracles="O-CONN-06"><div class="case-head"><div><span class="case-id">用例 <code>SURV-CONNECT</code></span><h3>锁屏存活：先连上隧道</h3></div><span class="badge pass">通过</span></div><div class="case-meta"><span class="chip">O-CONN-06</span><span class="muted">步骤 2</span></div><ol class="steps"><li class="step" id="step-SURV-CONNECT-S1"><div class="step-head"><span class="step-id"><code>S1</code></span><span class="badge pass">通过</span></div><p class="step-name">冷启动应用</p><dl><dt>操作</dt><dd>aa force-stop 后 aa start</dd><dt>期望</dt><dd><ul class="expected"><li>设备日志出现 ui_opened</li><li>界面显示未连接或已连接</li></ul></dd><dt>实际</dt><dd>应用冷启动完成，界面显示连接状态</dd></dl><div class="shots single"><figure><a href="shots/SURV-CONNECT__S1__1.png"><img src="shots/SURV-CONNECT__S1__1.png" alt="操作后" loading="lazy"></a><figcaption>操作后 · e2e-run/shots/01-survival-launch.png</figcaption></figure></div></li><li class="step" id="step-SURV-CONNECT-S2"><div class="step-head"><span class="step-id"><code>S2</code></span><span class="badge pass">通过</span></div><p class="step-name">建立隧道</p><dl><dt>操作</dt><dd>界面处于未连接时点击连接按钮</dd><dt>期望</dt><dd><ul class="expected"><li>设备日志出现 vpn_connected</li></ul></dd><dt>实际</dt><dd>应用已处于已连接状态</dd></dl><div class="shots single"><figure><a href="shots/SURV-CONNECT__S2__1.png"><img src="shots/SURV-CONNECT__S2__1.png" alt="结果" loading="lazy"></a><figcaption>结果 · e2e-run/shots/02-survival-connected.png</figcaption></figure></div></li></ol></article><article class="case pass" id="case-SURV-SCREEN-OFF" data-case-card data-status="pass" data-oracles="O-CONN-06"><div class="case-head"><div><span class="case-id">用例 <code>SURV-SCREEN-OFF</code></span><h3>锁屏 720 秒静置期间心跳不断</h3></div><span class="badge pass">通过</span></div><div class="case-meta"><span class="chip">O-CONN-06</span><span class="muted">步骤 2</span></div><ol class="steps"><li class="step" id="step-SURV-SCREEN-OFF-S1"><div class="step-head"><span class="step-id"><code>S1</code></span><span class="badge pass">通过</span></div><p class="step-name">锁屏静置</p><dl><dt>操作</dt><dd>power-shell suspend 后等待 720 秒并唤醒</dd><dt>期望</dt><dd><ul class="expected"><li>设备进入锁屏</li><li>到点后唤醒成功</li></ul></dd><dt>实际</dt><dd>锁屏 720 秒后唤醒</dd></dl><div class="shots"><figure><a href="shots/SURV-SCREEN-OFF__S1__1.png"><img src="shots/SURV-SCREEN-OFF__S1__1.png" alt="操作前" loading="lazy"></a><figcaption>操作前 · e2e-run/shots/03-survival-before-suspend.png</figcaption></figure><figure><a href="shots/SURV-SCREEN-OFF__S1__2.png"><img src="shots/SURV-SCREEN-OFF__S1__2.png" alt="操作后" loading="lazy"></a><figcaption>操作后 · e2e-run/shots/04-survival-after-wakeup.png</figcaption></figure></div></li><li class="step" id="step-SURV-SCREEN-OFF-S2"><div class="step-head"><span class="step-id"><code>S2</code></span><span class="badge pass">通过</span></div><p class="step-name">校验心跳</p><dl><dt>操作</dt><dd>统计锁屏期间扩展写入的心跳</dd><dt>期望</dt><dd><ul class="expected"><li>心跳数量达到下限</li><li>心跳跨度达到 720 秒</li><li>最大间隔不超过 15 秒</li></ul></dd><dt>实际</dt><dd>心跳 225 个，跨度 742 s，最大间隔 6.9 s</dd></dl><h4>运行输出</h4><pre class="output">心跳 225 个，跨度 742 s，最大间隔 6.9 s</pre></li></ol></article><article class="case pass" id="case-SURV-ONE-PROCESS" data-case-card data-status="pass" data-oracles="O-CONN-06"><div class="case-head"><div><span class="case-id">用例 <code>SURV-ONE-PROCESS</code></span><h3>锁屏存活：全程只有一个扩展进程</h3></div><span class="badge pass">通过</span></div><div class="case-meta"><span class="chip">O-CONN-06</span><span class="muted">步骤 1</span></div><ol class="steps"><li class="step" id="step-SURV-ONE-PROCESS-S1"><div class="step-head"><span class="step-id"><code>S1</code></span><span class="badge pass">通过</span></div><p class="step-name">统计扩展进程</p><dl><dt>操作</dt><dd>检索设备日志中的扩展创建与销毁事件</dd><dt>期望</dt><dd><ul class="expected"><li>vpn_extension_created 出现 1 次</li><li>vpn_extension_destroyed 出现 0 次</li></ul></dd><dt>实际</dt><dd>vpn_extension_created 1 次，vpn_extension_destroyed 0 次</dd></dl><h4>运行输出</h4><pre class="output">vpn_extension_created 1 次，vpn_extension_destroyed 0 次</pre></li></ol></article></div>
 </section>
 
 <section>
@@ -247,13 +247,13 @@ AppMod finish</pre></li><li class="step" id="step-INSTALL-RESTART-S3"><div class
 <table>
 <caption>本次报告引用的全部证据</caption>
 <thead><tr><th>用例 / 步骤</th><th>类型</th><th>标签</th><th>报告内路径</th><th>大小</th><th>SHA-256 前缀</th></tr></thead>
-<tbody><tr data-evidence-type="screenshot"><td><code>BG-CONNECT</code> / <code>S1</code></td><td>截图</td><td>操作后</td><td><code>shots/BG-CONNECT__S1__1.png</code></td><td>223.9 KB</td><td><code>207e1843c06c</code></td></tr><tr data-evidence-type="screenshot"><td><code>BG-CONNECT</code> / <code>S2</code></td><td>截图</td><td>结果</td><td><code>shots/BG-CONNECT__S2__1.png</code></td><td>297.2 KB</td><td><code>ee8f54c645cd</code></td></tr><tr data-evidence-type="screenshot"><td><code>BG-USER-STOP</code> / <code>S1</code></td><td>截图</td><td>结果</td><td><code>shots/BG-USER-STOP__S1__1.png</code></td><td>314.3 KB</td><td><code>8b2856300146</code></td></tr><tr data-evidence-type="output"><td><code>BG-USER-STOP</code> / <code>S2</code></td><td>文本输出</td><td>log</td><td>—</td><td>65 字符</td><td><code>1cf32a3f7ba4</code></td></tr><tr data-evidence-type="output"><td><code>ENDURANCE-RECOVERY</code> / <code>S1</code></td><td>文本输出</td><td>log</td><td>—</td><td>72 字符</td><td><code>2899495cb109</code></td></tr><tr data-evidence-type="output"><td><code>ENDURANCE-RECOVERY</code> / <code>S2</code></td><td>文本输出</td><td>log</td><td>—</td><td>34 字符</td><td><code>e6ac9b828f1e</code></td></tr><tr data-evidence-type="screenshot"><td><code>ENDURANCE-RECOVERY</code> / <code>S3</code></td><td>截图</td><td>操作后</td><td><code>shots/ENDURANCE-RECOVERY__S3__1.png</code></td><td>453.3 KB</td><td><code>59418aae3c03</code></td></tr><tr data-evidence-type="screenshot"><td><code>ENDURANCE-RECOVERY</code> / <code>S3</code></td><td>截图</td><td>结果</td><td><code>shots/ENDURANCE-RECOVERY__S3__2.png</code></td><td>453.3 KB</td><td><code>59418aae3c03</code></td></tr><tr data-evidence-type="output"><td><code>ENDURANCE-RECOVERY</code> / <code>S4</code></td><td>文本输出</td><td>log</td><td>—</td><td>396 字符</td><td><code>a4924b1b700e</code></td></tr><tr data-evidence-type="output"><td><code>INSTALL-RESTART</code> / <code>S1</code></td><td>文本输出</td><td>log</td><td>—</td><td>534 字符</td><td><code>418ec5202942</code></td></tr><tr data-evidence-type="output"><td><code>INSTALL-RESTART</code> / <code>S2</code></td><td>文本输出</td><td>log</td><td>—</td><td>155 字符</td><td><code>26c715b6c7e7</code></td></tr><tr data-evidence-type="screenshot"><td><code>INSTALL-RESTART</code> / <code>S3</code></td><td>截图</td><td>操作后</td><td><code>shots/INSTALL-RESTART__S3__1.png</code></td><td>311.6 KB</td><td><code>f0181e558d63</code></td></tr><tr data-evidence-type="screenshot"><td><code>INSTALL-RESTART</code> / <code>S4</code></td><td>截图</td><td>结果</td><td><code>shots/INSTALL-RESTART__S4__1.png</code></td><td>297.0 KB</td><td><code>795f97c271d1</code></td></tr><tr data-evidence-type="output"><td><code>INSTALL-RESTART</code> / <code>S5</code></td><td>文本输出</td><td>log</td><td>—</td><td>214 字符</td><td><code>a02b9ae5c4f6</code></td></tr><tr data-evidence-type="screenshot"><td><code>SURV-CONNECT</code> / <code>S1</code></td><td>截图</td><td>操作后</td><td><code>shots/SURV-CONNECT__S1__1.png</code></td><td>223.1 KB</td><td><code>6736dc7294cd</code></td></tr><tr data-evidence-type="screenshot"><td><code>SURV-CONNECT</code> / <code>S2</code></td><td>截图</td><td>结果</td><td><code>shots/SURV-CONNECT__S2__1.png</code></td><td>291.9 KB</td><td><code>25869afaa0a0</code></td></tr><tr data-evidence-type="screenshot"><td><code>SURV-SCREEN-OFF</code> / <code>S1</code></td><td>截图</td><td>操作前</td><td><code>shots/SURV-SCREEN-OFF__S1__1.png</code></td><td>290.9 KB</td><td><code>7dddcc9d90bd</code></td></tr><tr data-evidence-type="screenshot"><td><code>SURV-SCREEN-OFF</code> / <code>S1</code></td><td>截图</td><td>操作后</td><td><code>shots/SURV-SCREEN-OFF__S1__2.png</code></td><td>2569.2 KB</td><td><code>d4173da3f918</code></td></tr><tr data-evidence-type="output"><td><code>SURV-SCREEN-OFF</code> / <code>S2</code></td><td>文本输出</td><td>log</td><td>—</td><td>28 字符</td><td><code>b22b7ebbc672</code></td></tr><tr data-evidence-type="output"><td><code>SURV-ONE-PROCESS</code> / <code>S1</code></td><td>文本输出</td><td>log</td><td>—</td><td>53 字符</td><td><code>73ffe8dfe648</code></td></tr></tbody>
+<tbody><tr data-evidence-type="screenshot"><td><code>BG-CONNECT</code> / <code>S1</code></td><td>截图</td><td>操作后</td><td><code>shots/BG-CONNECT__S1__1.png</code></td><td>309.8 KB</td><td><code>f2e5a9089e90</code></td></tr><tr data-evidence-type="screenshot"><td><code>BG-CONNECT</code> / <code>S2</code></td><td>截图</td><td>结果</td><td><code>shots/BG-CONNECT__S2__1.png</code></td><td>292.7 KB</td><td><code>6c4f747c14fa</code></td></tr><tr data-evidence-type="screenshot"><td><code>BG-USER-STOP</code> / <code>S1</code></td><td>截图</td><td>结果</td><td><code>shots/BG-USER-STOP__S1__1.png</code></td><td>309.4 KB</td><td><code>946b6255efb6</code></td></tr><tr data-evidence-type="output"><td><code>BG-USER-STOP</code> / <code>S2</code></td><td>文本输出</td><td>log</td><td>—</td><td>65 字符</td><td><code>1cf32a3f7ba4</code></td></tr><tr data-evidence-type="output"><td><code>ENDURANCE-RECOVERY</code> / <code>S1</code></td><td>文本输出</td><td>log</td><td>—</td><td>72 字符</td><td><code>6dfcfb376da3</code></td></tr><tr data-evidence-type="output"><td><code>ENDURANCE-RECOVERY</code> / <code>S2</code></td><td>文本输出</td><td>log</td><td>—</td><td>34 字符</td><td><code>e6ac9b828f1e</code></td></tr><tr data-evidence-type="screenshot"><td><code>ENDURANCE-RECOVERY</code> / <code>S3</code></td><td>截图</td><td>操作后</td><td><code>shots/ENDURANCE-RECOVERY__S3__1.png</code></td><td>454.1 KB</td><td><code>8bd6ef68433e</code></td></tr><tr data-evidence-type="screenshot"><td><code>ENDURANCE-RECOVERY</code> / <code>S3</code></td><td>截图</td><td>结果</td><td><code>shots/ENDURANCE-RECOVERY__S3__2.png</code></td><td>454.1 KB</td><td><code>8bd6ef68433e</code></td></tr><tr data-evidence-type="output"><td><code>ENDURANCE-RECOVERY</code> / <code>S4</code></td><td>文本输出</td><td>log</td><td>—</td><td>396 字符</td><td><code>3e0cc764a0f8</code></td></tr><tr data-evidence-type="output"><td><code>INSTALL-RESTART</code> / <code>S1</code></td><td>文本输出</td><td>log</td><td>—</td><td>534 字符</td><td><code>4c161141f126</code></td></tr><tr data-evidence-type="output"><td><code>INSTALL-RESTART</code> / <code>S2</code></td><td>文本输出</td><td>log</td><td>—</td><td>155 字符</td><td><code>26c715b6c7e7</code></td></tr><tr data-evidence-type="screenshot"><td><code>INSTALL-RESTART</code> / <code>S3</code></td><td>截图</td><td>操作后</td><td><code>shots/INSTALL-RESTART__S3__1.png</code></td><td>312.5 KB</td><td><code>475c1a461247</code></td></tr><tr data-evidence-type="screenshot"><td><code>INSTALL-RESTART</code> / <code>S4</code></td><td>截图</td><td>结果</td><td><code>shots/INSTALL-RESTART__S4__1.png</code></td><td>212.0 KB</td><td><code>526479b55da1</code></td></tr><tr data-evidence-type="output"><td><code>INSTALL-RESTART</code> / <code>S5</code></td><td>文本输出</td><td>log</td><td>—</td><td>204 字符</td><td><code>5fe4fbd46f02</code></td></tr><tr data-evidence-type="screenshot"><td><code>SURV-CONNECT</code> / <code>S1</code></td><td>截图</td><td>操作后</td><td><code>shots/SURV-CONNECT__S1__1.png</code></td><td>211.7 KB</td><td><code>20a3947efca0</code></td></tr><tr data-evidence-type="screenshot"><td><code>SURV-CONNECT</code> / <code>S2</code></td><td>截图</td><td>结果</td><td><code>shots/SURV-CONNECT__S2__1.png</code></td><td>291.8 KB</td><td><code>8fdcb2a48ea3</code></td></tr><tr data-evidence-type="screenshot"><td><code>SURV-SCREEN-OFF</code> / <code>S1</code></td><td>截图</td><td>操作前</td><td><code>shots/SURV-SCREEN-OFF__S1__1.png</code></td><td>291.3 KB</td><td><code>50e1858db767</code></td></tr><tr data-evidence-type="screenshot"><td><code>SURV-SCREEN-OFF</code> / <code>S1</code></td><td>截图</td><td>操作后</td><td><code>shots/SURV-SCREEN-OFF__S1__2.png</code></td><td>2538.0 KB</td><td><code>57083c226675</code></td></tr><tr data-evidence-type="output"><td><code>SURV-SCREEN-OFF</code> / <code>S2</code></td><td>文本输出</td><td>log</td><td>—</td><td>28 字符</td><td><code>8545c86c2ee0</code></td></tr><tr data-evidence-type="output"><td><code>SURV-ONE-PROCESS</code> / <code>S1</code></td><td>文本输出</td><td>log</td><td>—</td><td>53 字符</td><td><code>73ffe8dfe648</code></td></tr></tbody>
 </table>
 </div>
 </section>
 
 <footer>
-生成时间 2026-10-22T15:26:13+11:00 · 报告结构版本 1 · 由 <code>a01</code> 的 <code>scripts/e2e-report.py</code> 生成。<br>
+生成时间 2026-10-22T19:09:28+11:00 · 报告结构版本 1 · 由 <code>a01</code> 的 <code>scripts/e2e-report.py</code> 生成。<br>
 此页只投影运行日志。此页不执行测试，不自动判定开发完成。发布链接见 <code>e2e-published.txt</code>。
 </footer>
 </main>
